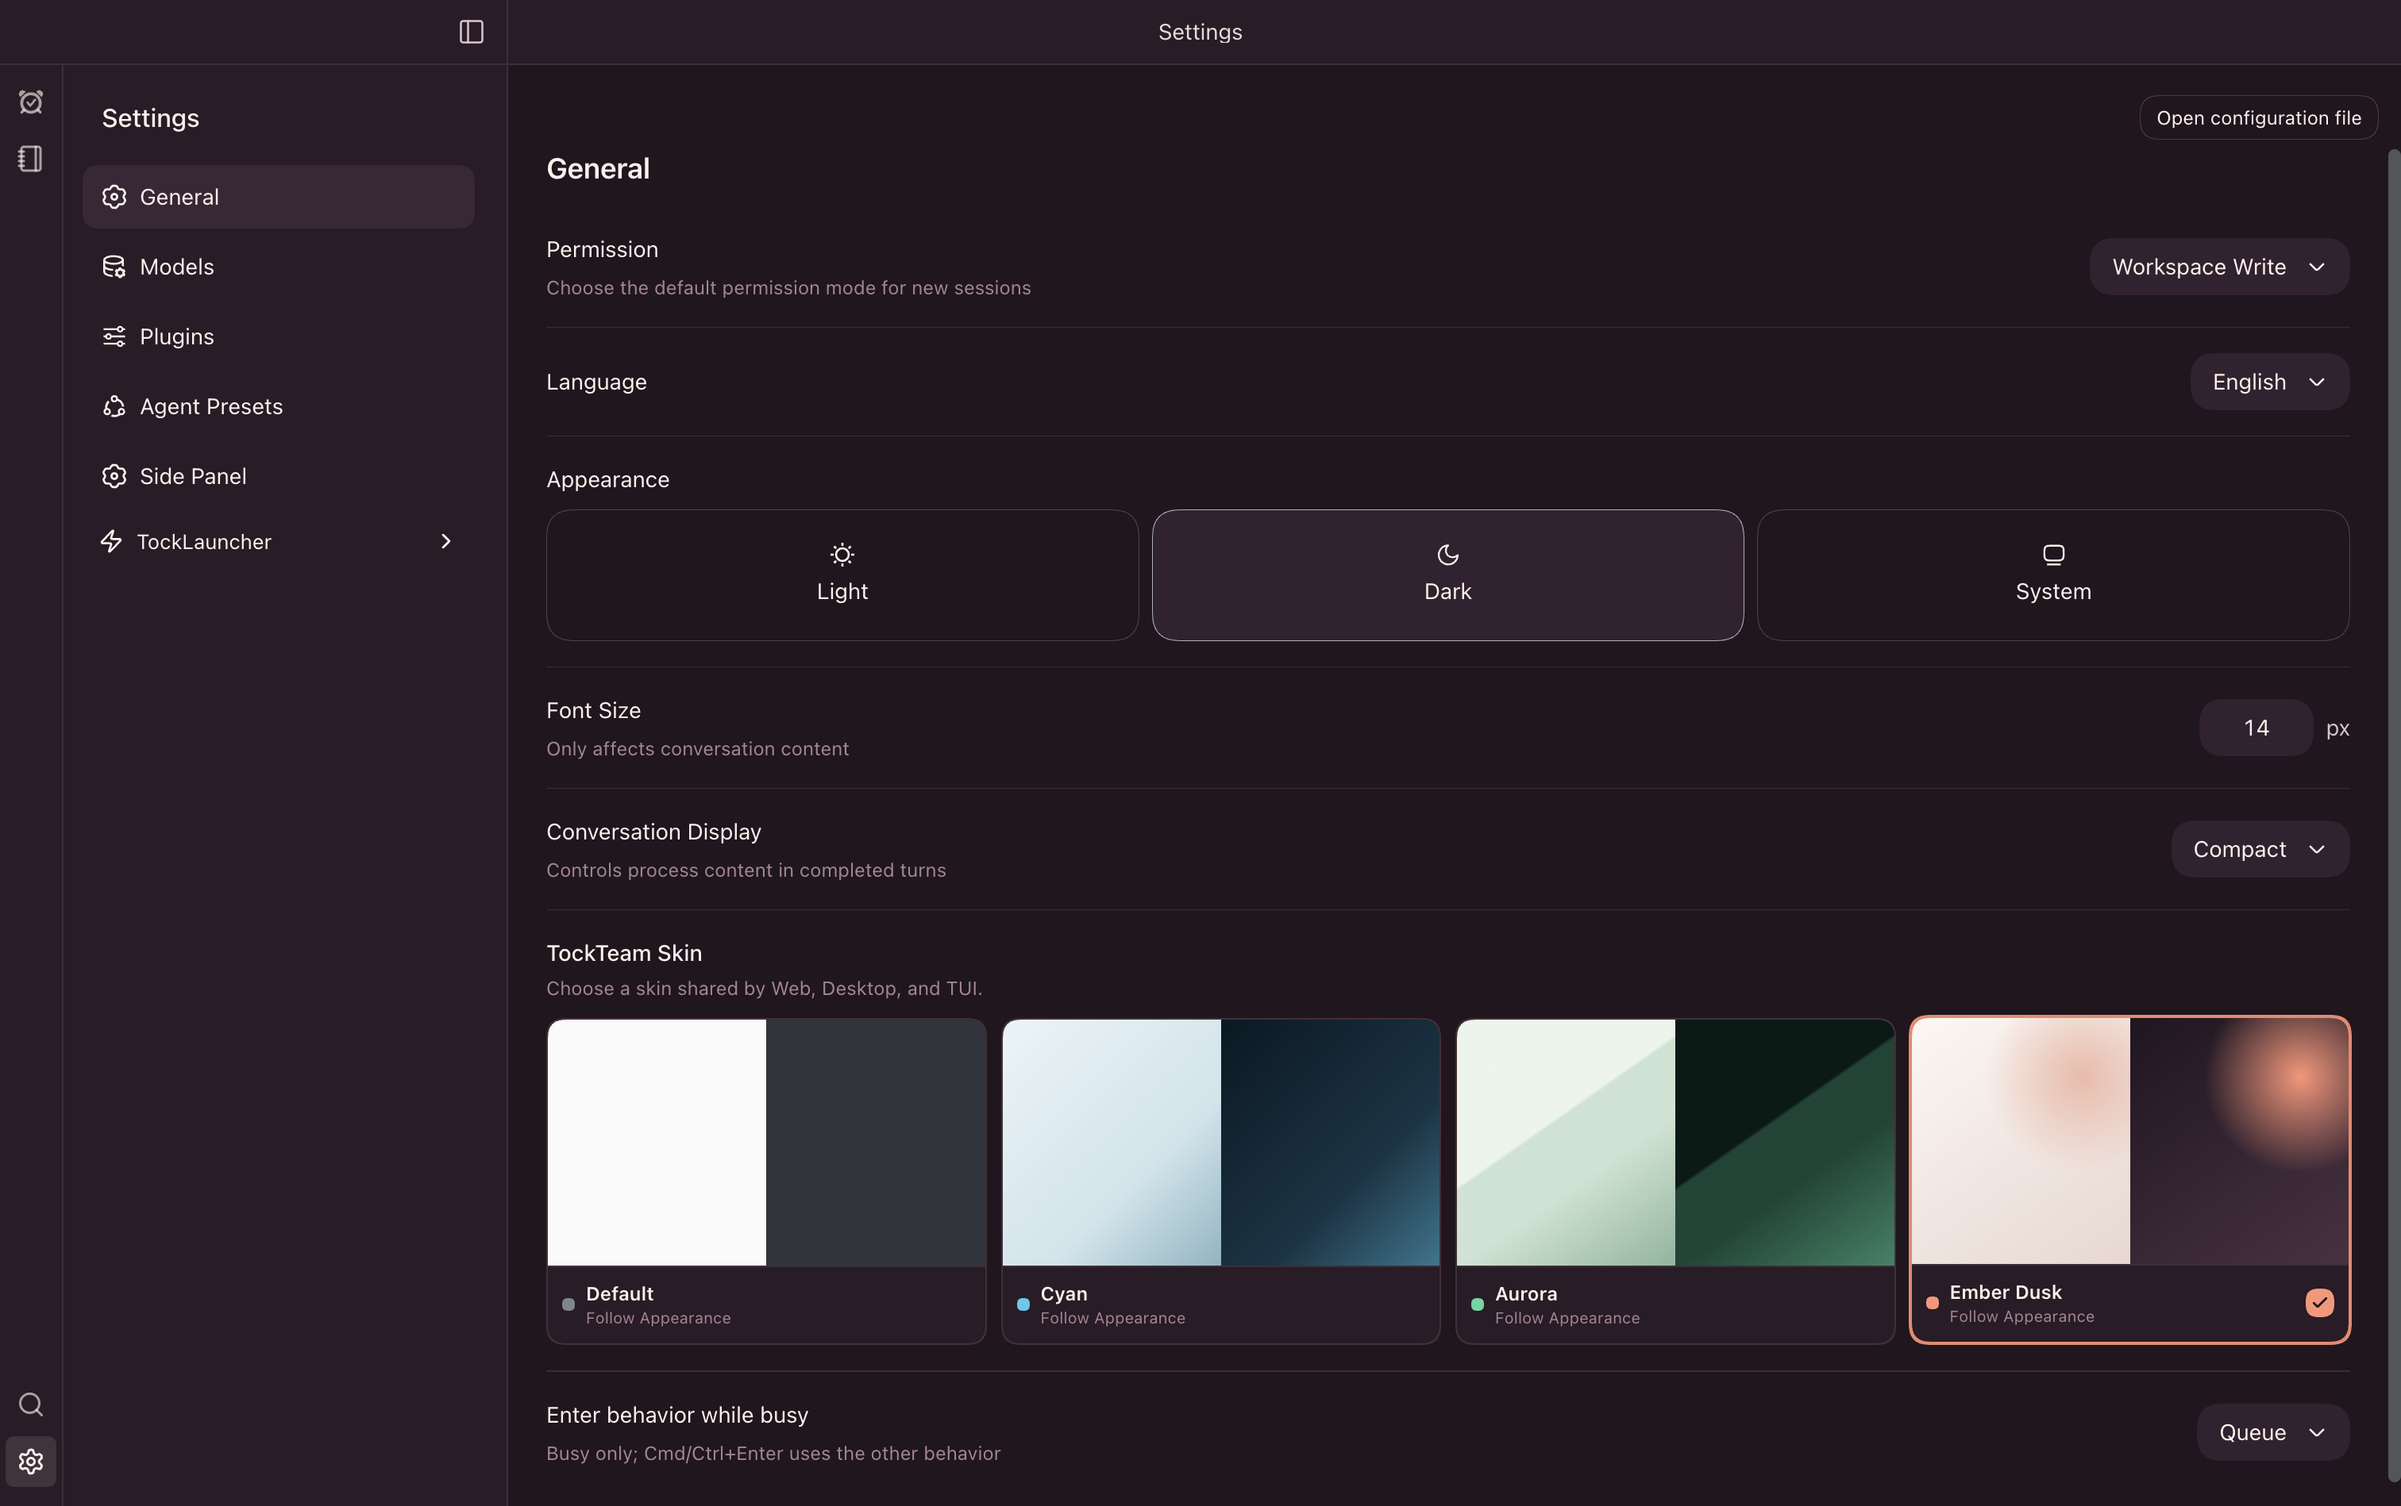
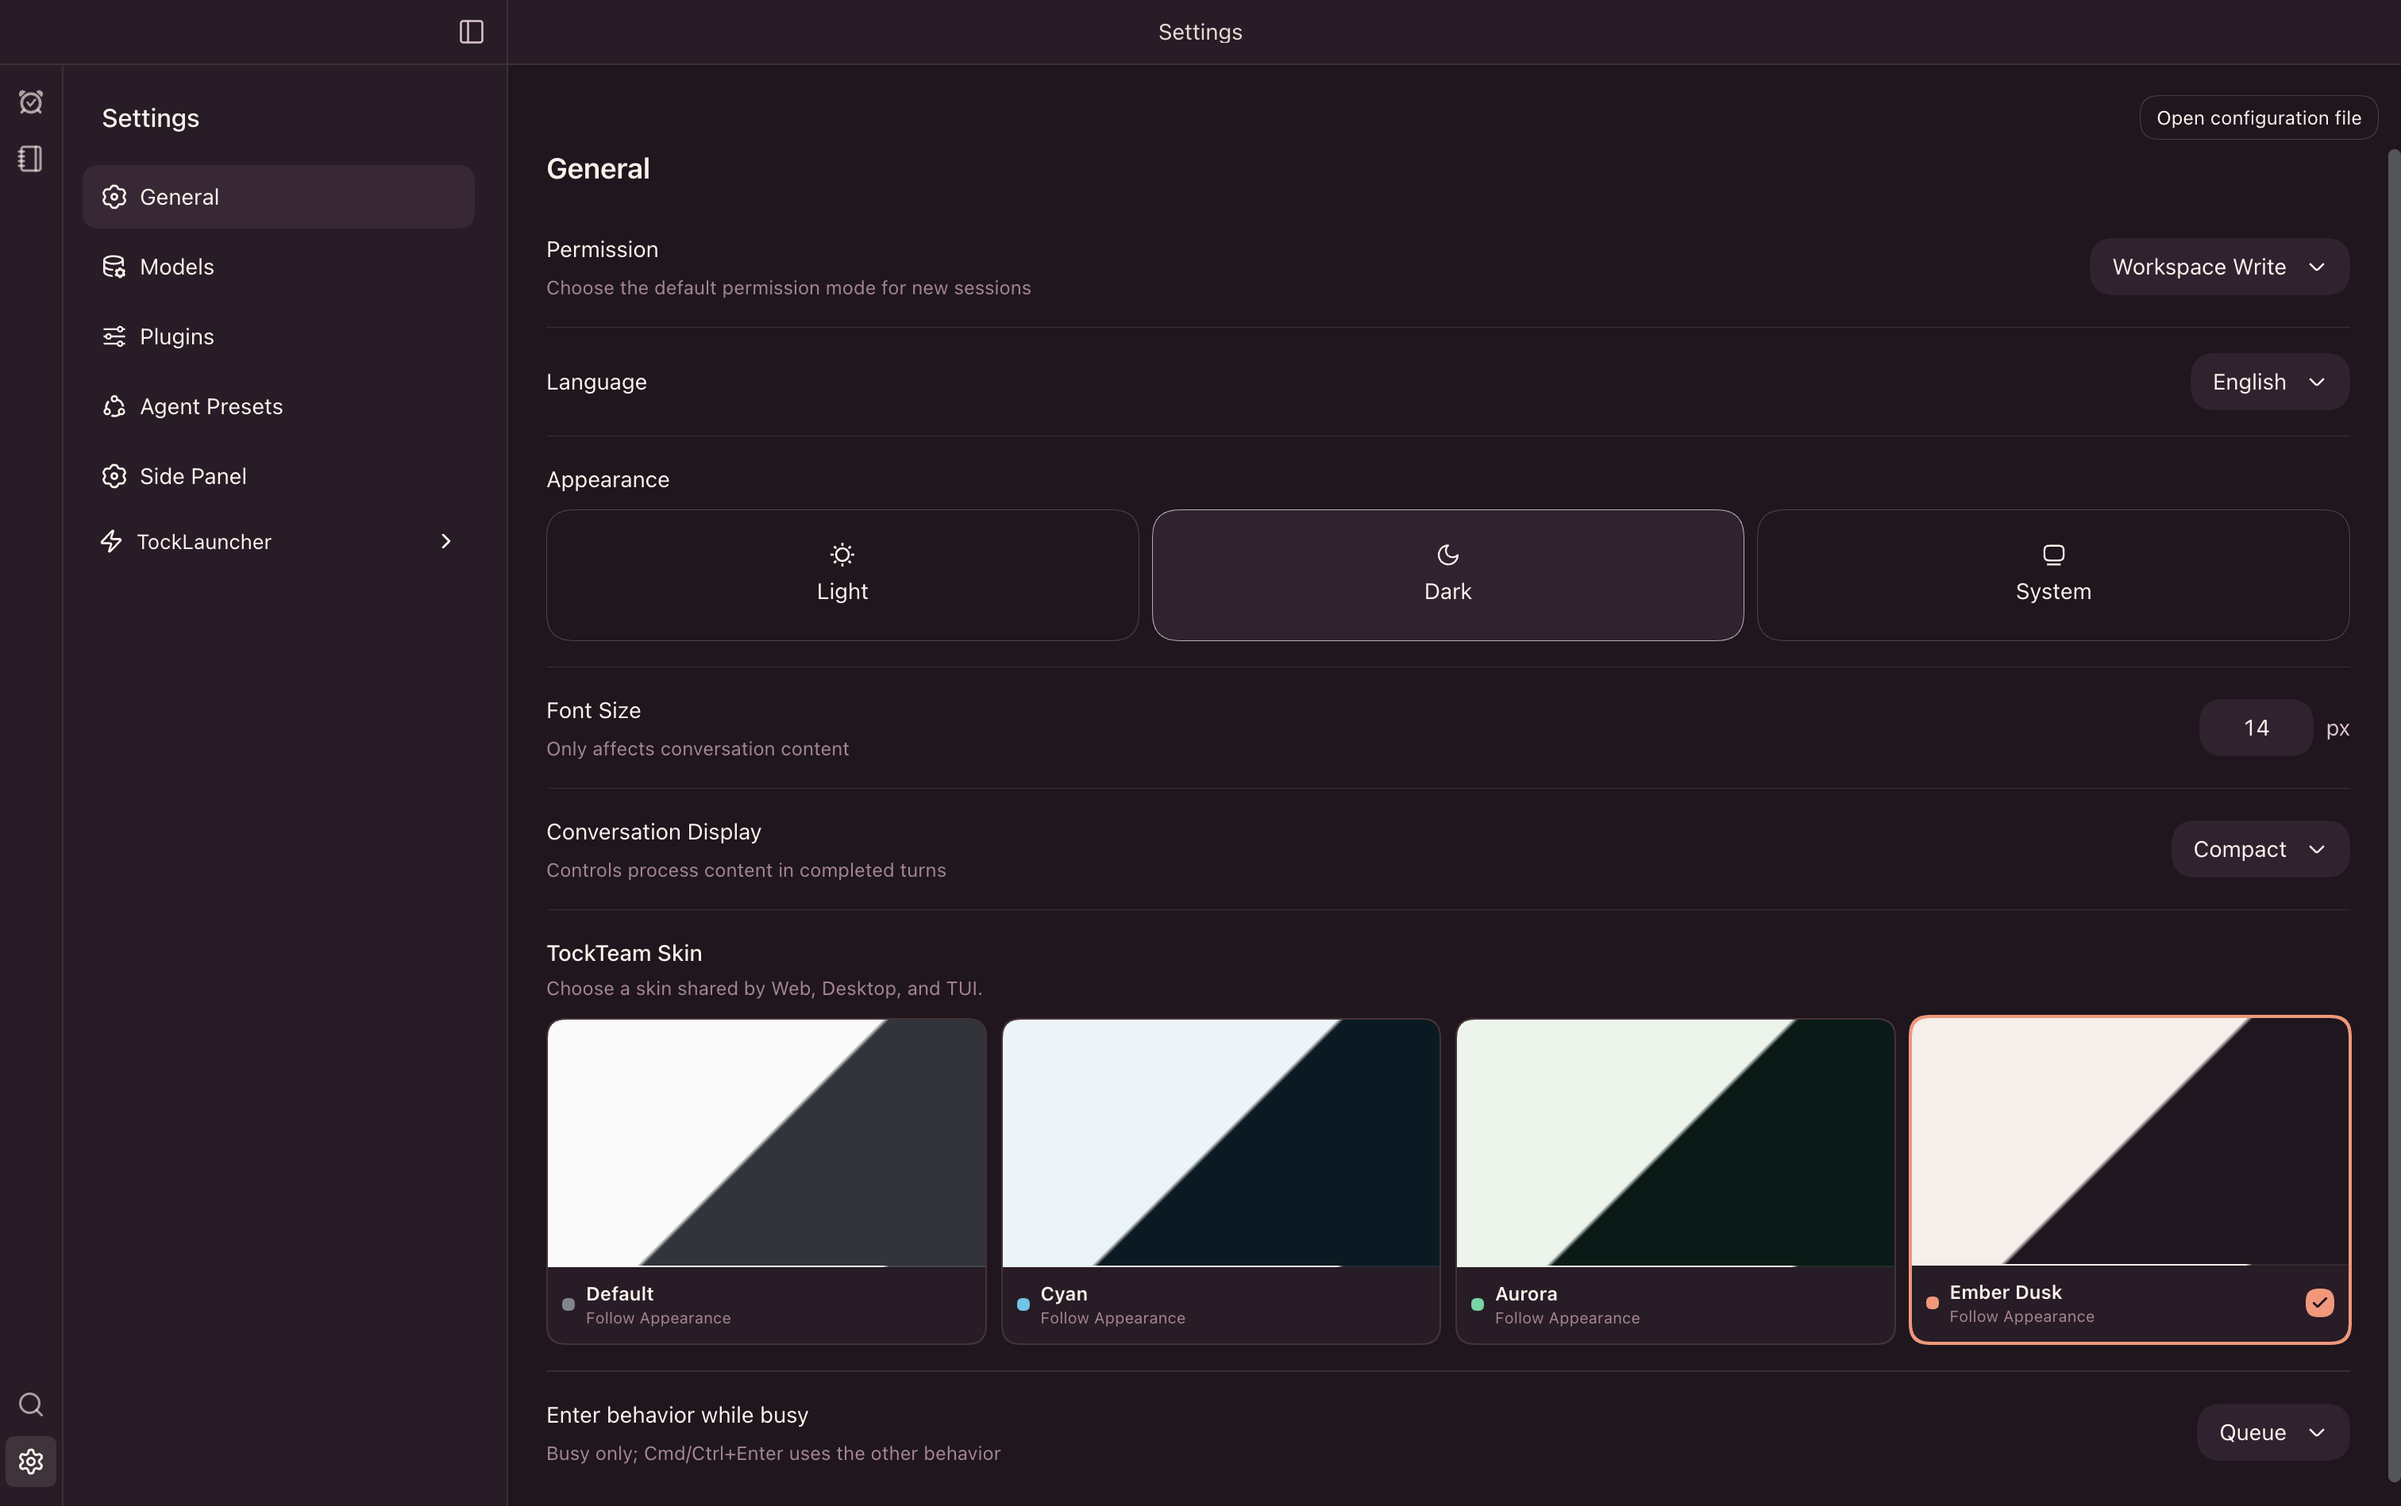
Refresh skin gallery with solid diagonal card previews

Changed region(s): [[0.4352, 0.6528, 0.8082, 0.8393], [0.8393, 0.6528, 0.9947, 0.8393], [0.2487, 0.6528, 0.373, 0.8393]]

diff --git a/tests/skins-gallery.test.ts b/tests/skins-gallery.test.ts
@@ -3,6 +3,7 @@ import { createHash } from 'node:crypto'
 import { existsSync, readFileSync, readdirSync } from 'node:fs'
 import { resolve } from 'node:path'
 import test from 'node:test'
+import { TOCKTEAM_SKINS } from '../plugins/skins/src/skins.ts'
 
 const root = resolve('.agents/uiux/skins')
 const choices = [
@@ -60,10 +61,13 @@ test('shows four skin rows with verified Light-left and Dark-right captures', ()
       assert.equal(capture.selected, true, file)
       assert.ok(capture.contrast >= 4.5, file)
       assert.equal(capture.allCardsVerified, true, file)
+      const skin = TOCKTEAM_SKINS.find(choice => choice.id === skinId)
       assert.equal(capture.preview?.name, label, file)
-      assert.match(capture.preview.light, /^background:/u, file)
-      assert.match(capture.preview.dark, /^background:/u, file)
-      assert.notEqual(capture.preview.light, capture.preview.dark, file)
+      assert.equal(capture.preview.light, skin?.palettes.light.tokens['--dsw-alias-bg-base'] ?? '#fafafa', file)
+      assert.equal(capture.preview.dark, skin?.palettes.dark.tokens['--dsw-alias-bg-base'] ?? '#30343b', file)
+      assert.match(capture.preview.backgroundImage, /^linear-gradient\(135deg, /u, file)
+      assert.ok(capture.preview.backgroundImage.includes('49%') && capture.preview.backgroundImage.includes('50%'), file)
+      assert.equal(new Set([...capture.preview.backgroundImage.matchAll(/rgb\([^)]+\)/gu)].map(([color]) => color)).size, 2, `${file} must use only two plain colors`)
       assert.deepEqual(capture.errors, [], file)
     }
     const pair = proof.captures.filter((capture: { family: string }) => capture.family === label)
